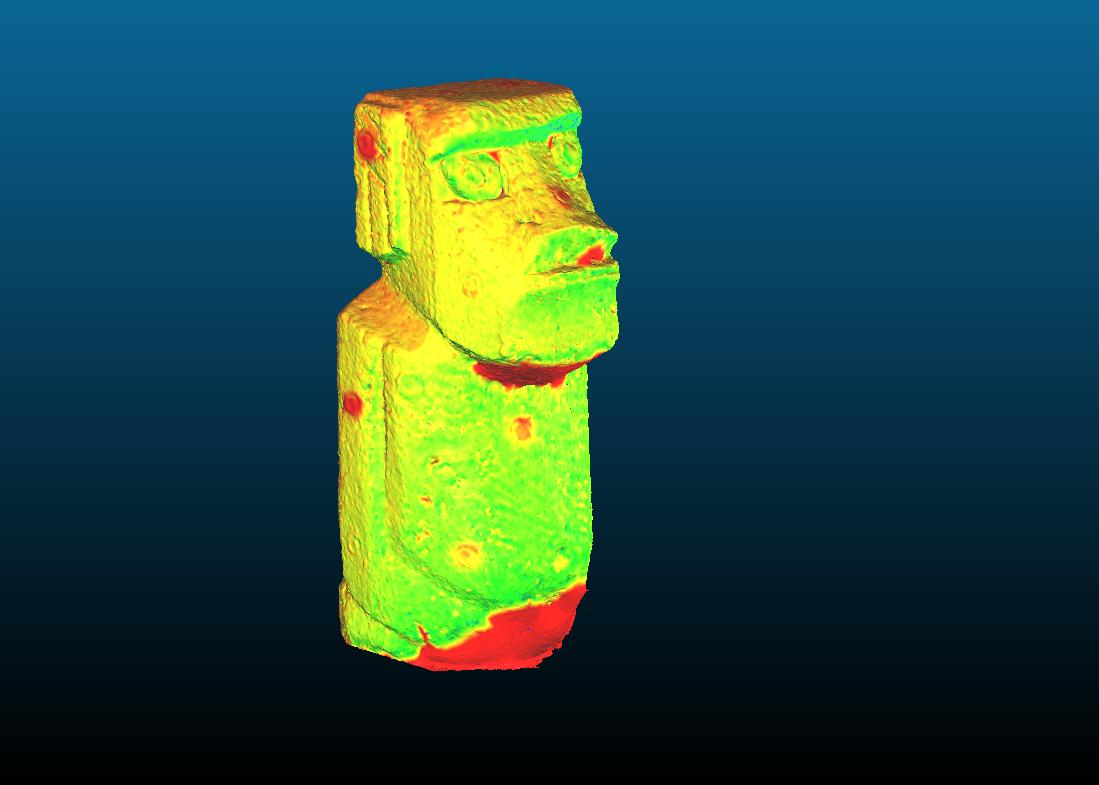
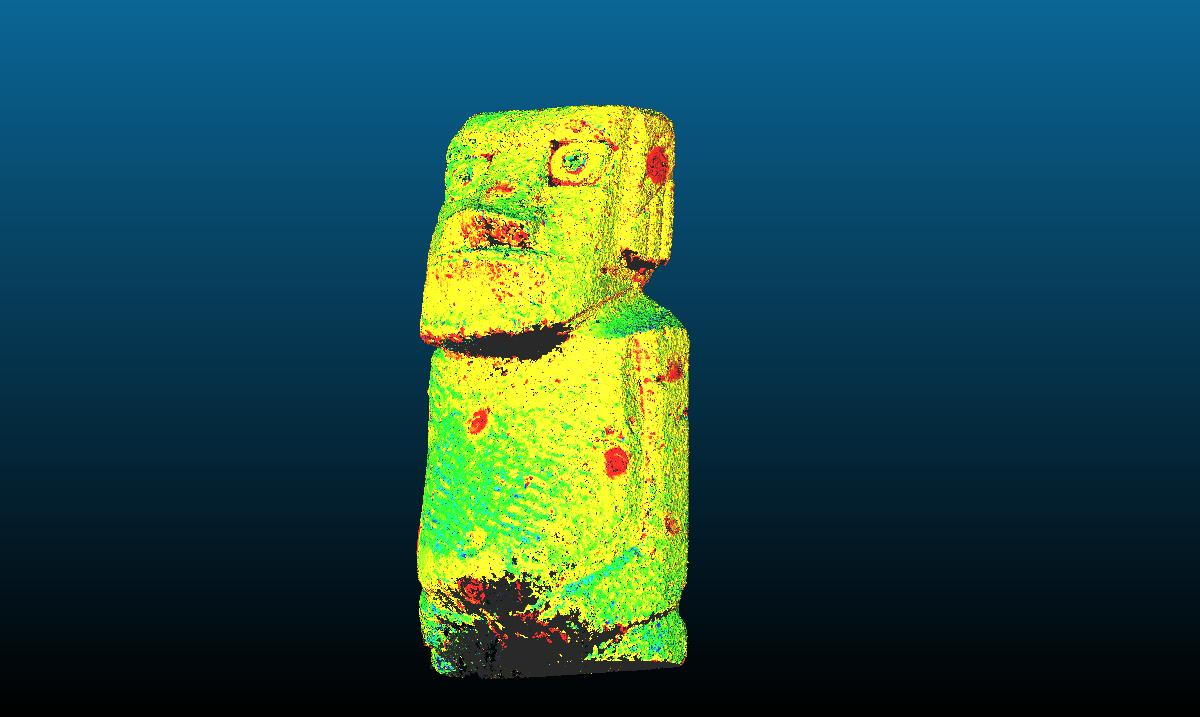
Korrektur Messwerte

Changed region(s): [[0.2784, 0.0921, 0.5878, 0.9512]]

diff --git a/07Versuche.tex b/07Versuche.tex
@@ -53,7 +53,7 @@ Als Vergleichsmessung wurden die Objekte mit einem Zeiss GOM ATOS 5 aufgemessen.
 Bei dem verwendeten System werden zwei Kameras eingesetzt, die sich ein massives Gehäuse mit dem mittig angeordneten Projektor teilen. Bei dem verwendeten Messvolumen und Objektentfernung beträgt die Genauigkeit etwa \todo{Wert}. Aufgrund der deutlich höheren erwarteten Genauigkeit des Streifenprojektionssystems, kann davon ausgegangen werden, dass die Messungen deutlich genauer sind als die des Prototypen und als wahre Werte angenommen werden können.
 
 \subsection{Ergebnisse}
-Die modellierte Oberfläche aus dem Streifenprojektionssystem und aus derm Prototypen wurden in Meshlab aufeinandergelegt und die Differenz berechnet. Die Visualisierung der Differenzen ist in \autoref{fig:differenz_moia} dargestellt. Es ist zu erkennen, dass einige Bereiche deutlich von der erwarteten Genauigkeit abweichen. Die größten Abweichungen sind im Bereich des Kopfes und des Bauches zu erkennen. Die Abweichungen im Bereich des restlichen Körpers sind deutlich geringer und liegen im Bereich von 0,7~mm. Die Abweichungen sind auf die schlechtere Erfassung der nach unten gerichteten Flächen \todo{andere Beschreibung oder Fehler vermeiden} zurückzuführen. Hier wurde die Oberfläche stark interpoliert.
+Die modellierte Oberfläche aus dem Streifenprojektionssystem und die Punktewolke aus dem Prototypen wurden in CloudCompare aufeinandergelegt und die Differenz berechnet. Die Visualisierung der Differenzen ist in \autoref{fig:differenz_moia} dargestellt. Es ist zu erkennen, dass einige Bereiche deutlich von der erwarteten Genauigkeit abweichen. Die größten Abweichungen sind im Bereich des Kopfes und des Bauches zu erkennen. Die Abweichungen im Bereich des restlichen Körpers sind deutlich geringer und liegen im Bereich von 0,7~mm. Die Abweichungen sind auf die schlechtere Erfassung der nach unten gerichteten Flächen \todo{andere Beschreibung oder Fehler vermeiden} zurückzuführen. Hier wurde die Oberfläche stark interpoliert.
 
 Die Abweichungen sind zwar größer, als mittels der Abschätzung in \autoref{ss:erwartete_genauigkeit} berechneten Werte, liegt aber in der Größenordnung dieser und auch der Genauigkeit eines 3D-Modelles des Körpers, welches photogrammetrisch mit einer Spiegelreflexkamera Nikon D90 aufgenommen wurde. Die Ergebnisse sind in \autoref{tab:vergleich_erg} zusammengefasst.
 
@@ -70,13 +70,15 @@ Die Abweichungen sind zwar größer, als mittels der Abschätzung in \autoref{ss
     \label{tab:vergleich_erg}
     \begin{tabular}{l|r|r|r}
         \toprule
-                  & Durchschnittliche & Mittlerer & Maximaler \\
-                  & Fehler            & Fehler    & Fehler    \\
+                   & Durchschnittliche & Mittlerer & Maximaler \\
+                   & Fehler            & Fehler    & Fehler    \\
         \midrule
-        Gesamt    & 0,37~mm           & 1,09~mm   & 11,6~mm   \\
-        gefiltert & 0,20~mm           & 0,72~mm   & 1,9~mm    \\
+        Gesamt     & 0,37~mm           & 1,09~mm   & 11,6~mm   \\  % Oberflächenmodell alt
+        gefiltert  & 0,20~mm           & 0,72~mm   & 1,9~mm    \\
         \midrule
-        Nikon D90 & 0,27~mm           & 0,19~mm   & 1,2~mm    \\
+        Punktwolke & 0,04~mm           & 0,21~mm   & 3,3~mm    \\  % Vertices neu
+        \midrule
+        Nikon D90  & 0,27~mm           & 0,19~mm   & 1,2~mm    \\
         \bottomrule
     \end{tabular}
 \end{table}
